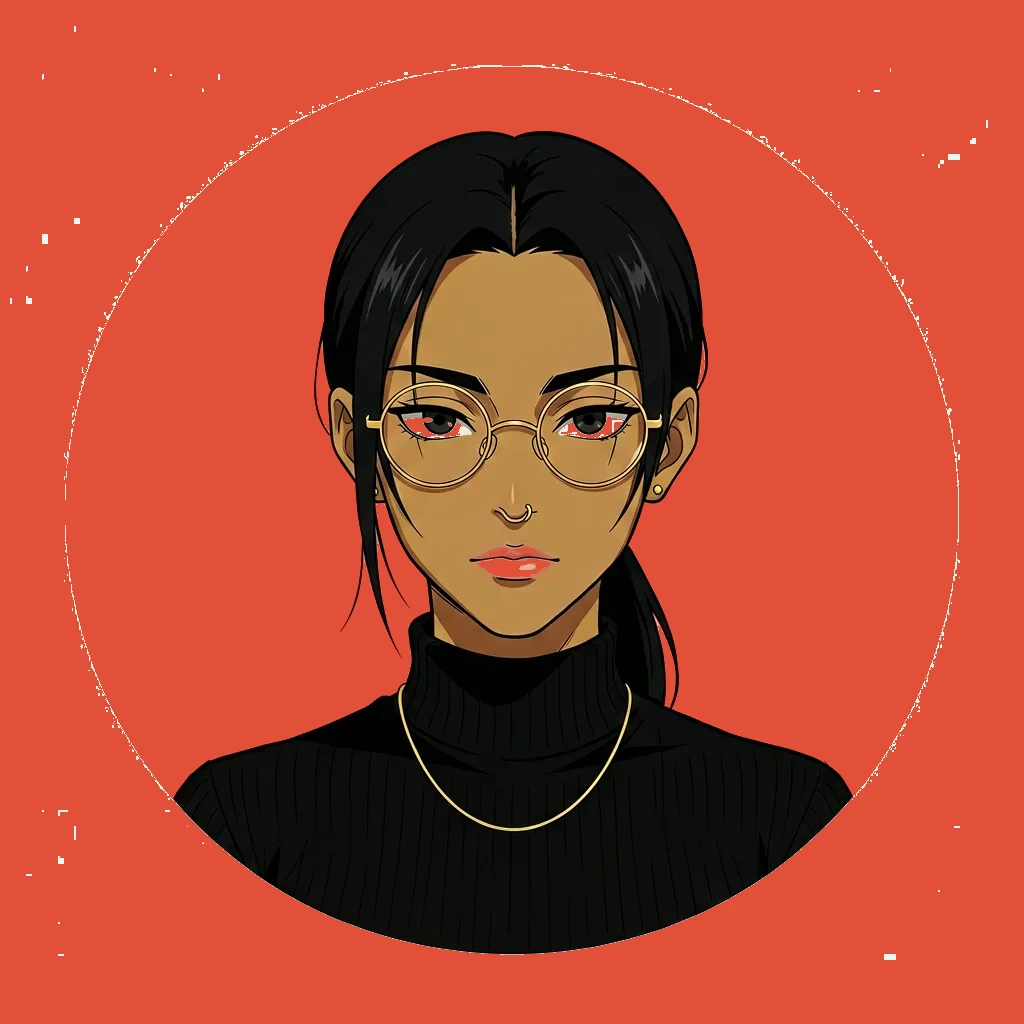
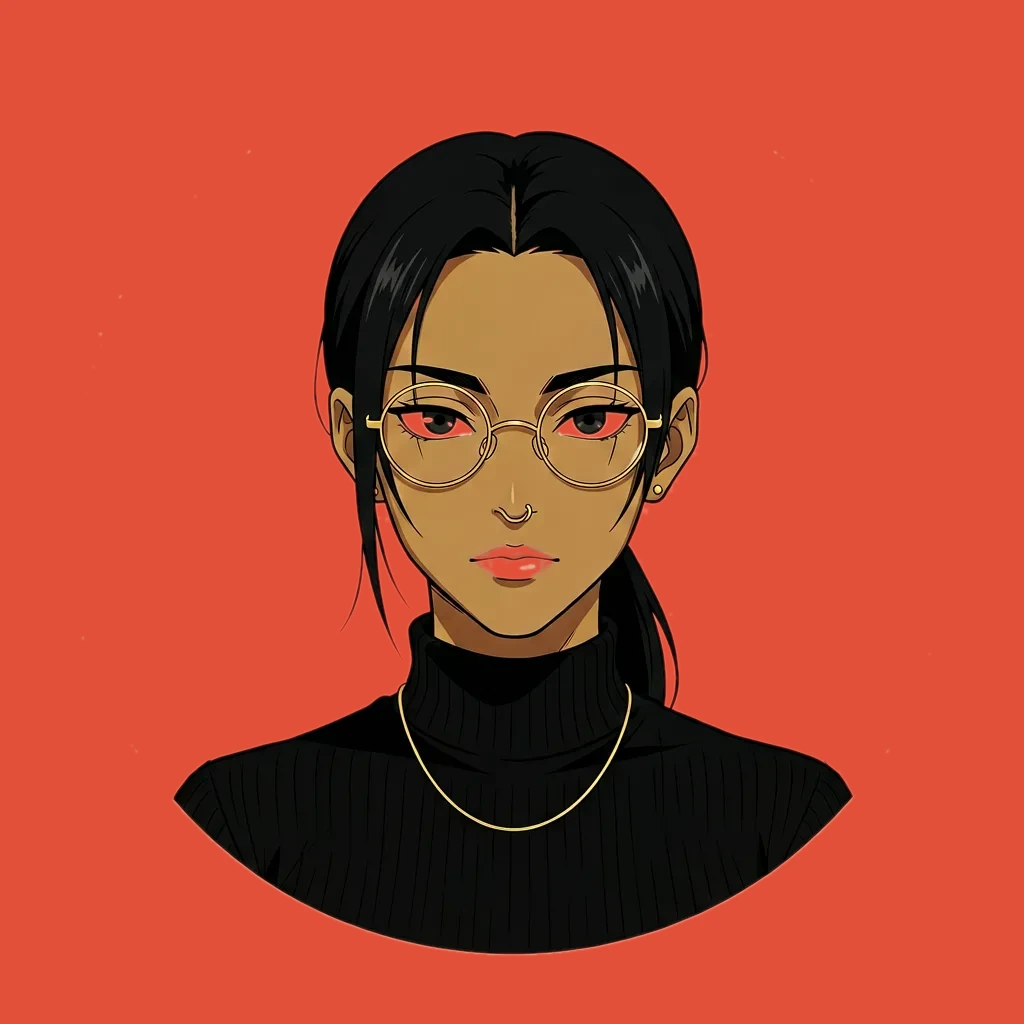
Architect: subject-extraction composite — solid coral edge-to-edge

diff --git a/renders/recolor_bg.py b/renders/recolor_bg.py
@@ -1,67 +1,61 @@
 """
-Replace cream + lighter-coral background pixels in Architect Zoe images
-with the exact Cocoon coral #E25038. Subject pixels (dark hair, brown skin,
-black clothing, gold accessories) are spared.
+Replace background of Architect images with solid Cocoon coral.
+Strategy: extract subject (hair, skin, clothing, accessories) by their
+distinctive characteristics — dark pixels OR skin tones (where G > B,
+which lighter-coral isn't).
 """
 import numpy as np
-from PIL import Image
-import sys
+from PIL import Image, ImageFilter
 
-TARGET_CORAL = np.array([226, 80, 56], dtype=np.uint8)  # #E25038
+TARGET_CORAL = (226, 80, 56)  # #E25038
+W = H = 1024
 
 def recolor(infile, outfile):
-    img = np.array(Image.open(infile).convert('RGB'))
-    R = img[:, :, 0].astype(int)
-    G = img[:, :, 1].astype(int)
-    B = img[:, :, 2].astype(int)
+    orig = Image.open(infile).convert('RGB')
+    if orig.size != (W, H):
+        orig = orig.resize((W, H))
+    arr = np.array(orig)
+    R = arr[:, :, 0].astype(int)
+    G = arr[:, :, 1].astype(int)
+    B = arr[:, :, 2].astype(int)
+    L = (np.maximum(R, np.maximum(G, B)) + np.minimum(R, np.minimum(G, B))) / 2.0 / 255.0
 
-    # Lightness (HSL midpoint)
-    max_c = np.maximum(np.maximum(R, G), B)
-    min_c = np.minimum(np.minimum(R, G), B)
-    L = (max_c + min_c) / 2.0 / 255.0
+    # Subject mask:
+    #   dark pixels (hair, clothing, dark eye details) — L < 0.45
+    #   skin / gold / warm subject — G > B by 25+ (signal of yellow undertone)
+    #     skin sample (187,139,73): G-B = 66 ✓
+    #     gold              : G-B large ✓
+    #     lighter-coral (243,105,91): G-B = 14 ✗ (excluded)
+    #     cream  (246,247,238): G-B =  9 ✗ (excluded)
+    is_dark = L < 0.45
+    is_warm_subject = (G - B) > 25
 
-    # Saturation
-    delta = max_c - min_c
-
-    # SPATIAL classification: combine pixel color with distance from center.
-    # The subject sits roughly within radius 380 of the 1024×1024 center.
-    # Outside that radius we can aggressively replace anything bg-like.
+    # Catch platinum-blonde hair: very light, near center (subject area).
+    # Platinum  (244,234,210): L=0.89, near center → mask
+    # Cream — typically lives in image corners (radius > 480), not here.
     h, w = R.shape
     yy, xx = np.indices((h, w))
-    cy, cx = h / 2, w / 2
-    dist = np.sqrt((yy - cy) ** 2 + (xx - cx) ** 2)
+    dist = np.sqrt((yy - h / 2) ** 2 + (xx - w / 2) ** 2)
+    is_inner_light = (dist < 380) & (L > 0.78)
 
-    # CREAM: must be near-neutral (R≈G, both close to B). This excludes
-    # platinum-blonde hair which is light but R is clearly higher than G.
-    #   cream ≈ (246, 247, 238): R-G ≈ -1, near neutral
-    #   platinum hair ≈ (244, 234, 210): R-G ≈ 10  ← spared
-    is_cream = (L > 0.82) & (np.abs(R - G) <= 6) & (np.abs(R - B) <= 30)
+    subject_mask = is_dark | is_warm_subject | is_inner_light
 
-    # LIGHTER CORAL (the soft halo around the subject): R clearly dominant.
-    #   light coral ≈ (243, 105, 91): R-G = 138, R-B = 152
-    #   skin        ≈ (187, 139, 73): R-G =  48, R-B = 114  ← spared
-    is_lighter_coral = (L > 0.50) & (R > G + 80) & (R > B + 80)
+    # Convert mask to PIL, slight smooth edge
+    mask_img = Image.fromarray((subject_mask.astype(np.uint8) * 255), mode='L')
+    mask_img = mask_img.filter(ImageFilter.GaussianBlur(radius=1.2))
 
-    # OUTER region (radius > 360 from center): broaden lighter-coral
-    # detection because no subject pixels are out there.
-    outer = dist > 360
-    outer_bg = outer & ((L > 0.50) & (R > G + 30) & (R > B + 30))
+    # Solid coral background
+    bg = Image.new('RGB', (W, H), TARGET_CORAL)
 
-    # Outer-region boundary cleanup: catch the cream→coral transition haze
-    # without touching platinum hair (which is close-to-neutral light).
-    #   boundary haze ~ R clearly > G AND > B, e.g., (235, 200, 180) — R-G=35
-    #   platinum hair  ~ (244, 234, 210) — R-G=10  ← spared
-    outer_boundary = outer & (L > 0.55) & (R > G + 30) & (R > B + 50)
+    # Composite
+    result = Image.composite(orig, bg, mask_img)
+    result.save(outfile, 'webp', quality=92)
 
-    is_bg = is_cream | is_lighter_coral | outer_bg | outer_boundary
-
-    out = img.copy()
-    out[is_bg] = TARGET_CORAL
-
-    Image.fromarray(out).save(outfile, 'webp', quality=92)
-    print(f"  {infile} -> {outfile}  (changed {is_bg.sum()} px / {img.shape[0]*img.shape[1]} px)")
+    px = subject_mask.sum()
+    total = subject_mask.size
+    print(f"  {infile} -> {outfile}  (subject = {100*px/total:.1f}%)")
 
 if __name__ == '__main__':
     for slug in ['zoe-1-architect', 'zoe-2-architect', 'zoe-3-architect']:
         recolor(f'{slug}.original.webp', f'{slug}.webp')
-    print("done.")
+    print('done.')
